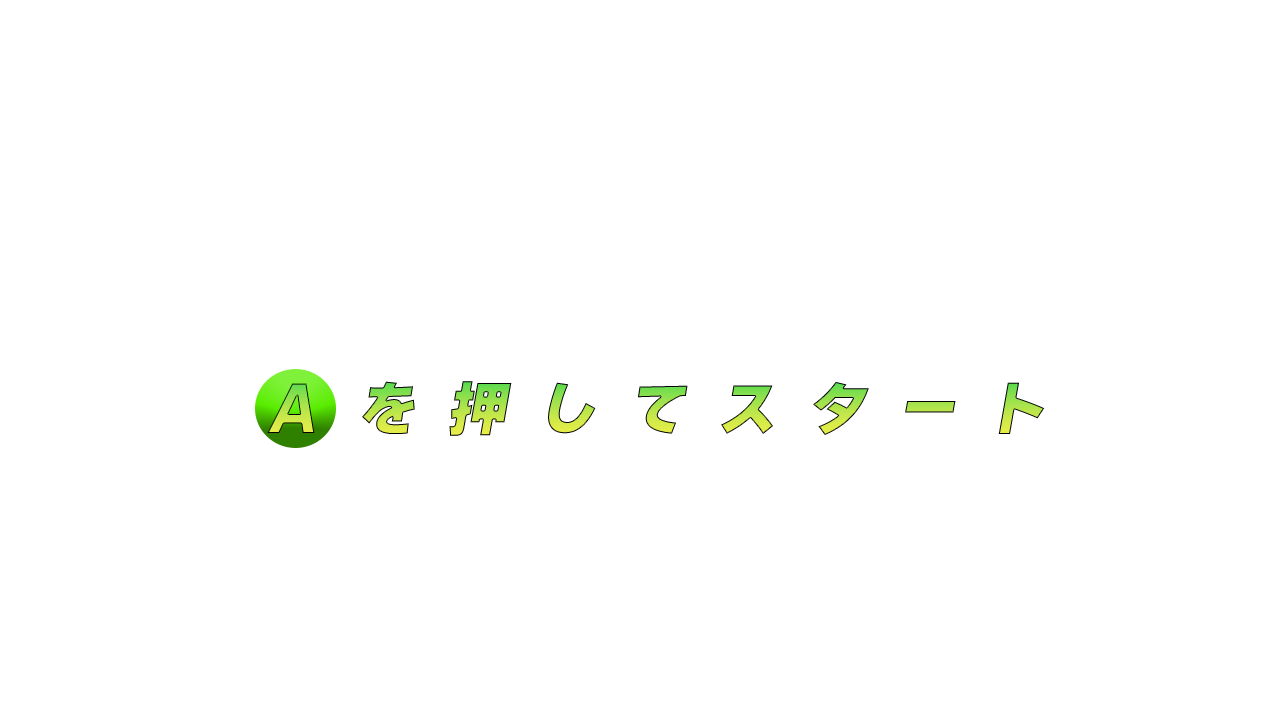
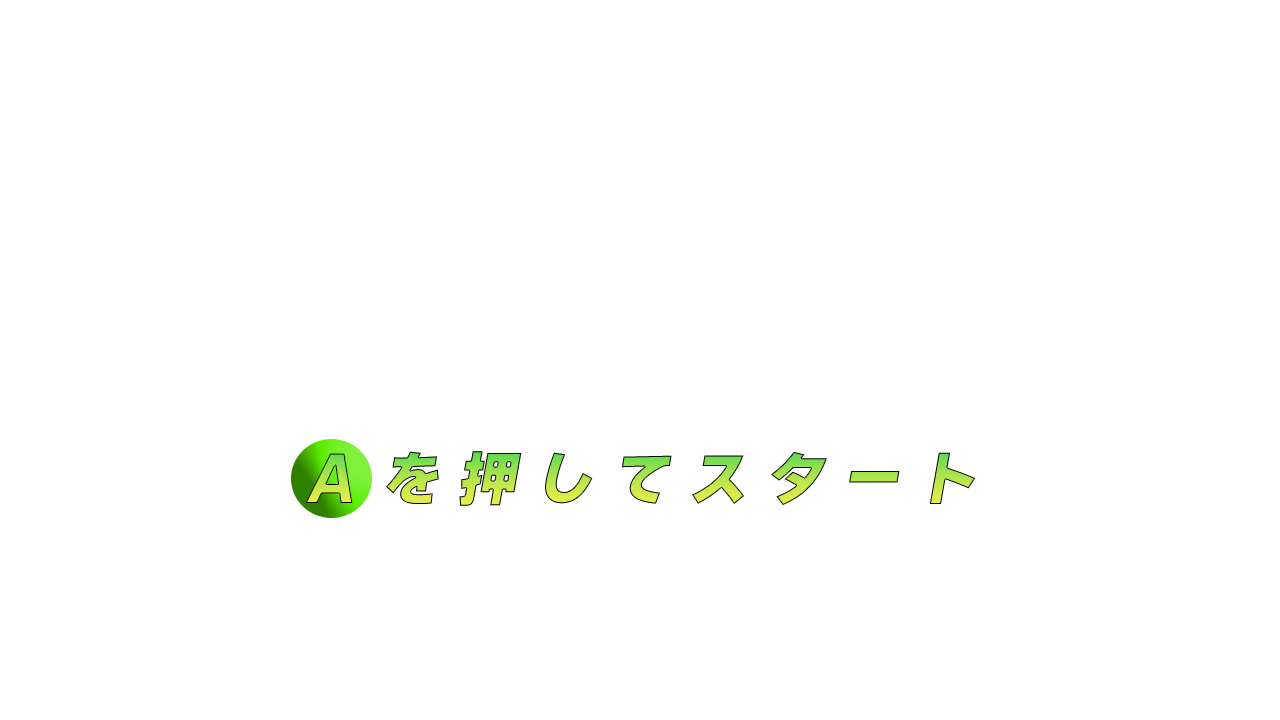
タイトル修正

Changed region(s): [[0.1875, 0.4889, 0.7812, 0.7333], [0.7812, 0.5194, 0.8125, 0.6111]]

diff --git a/DirectXGame/TitleScene.cpp b/DirectXGame/TitleScene.cpp
@@ -18,6 +18,12 @@ void TitleScene::Initialize() {
 	subTitleHandle_ = TextureManager::Load("subTitle.png");
 	textureSubTitle_ = Sprite::Create(subTitleHandle_, {0.0f, 0.0f}, subTitleColor_, {0.0f, 0.0f});
 
+	subTitleHandle1_ = TextureManager::Load("subTitle1.png");
+	textureSubTitle1_ = Sprite::Create(subTitleHandle1_, {0.0f, 0.0f}, subTitleColor1_, {0.0f, 0.0f});
+
+	subTitleHandle2_ = TextureManager::Load("subTitle2.png");
+	textureSubTitle2_ = Sprite::Create(subTitleHandle2_, {0.0f, 0.0f}, subTitleColor2_, {0.0f, 0.0f});
+
 	isSceneEnd_ = false;
 
 	/*score_ = std::make_unique<Score>();
@@ -48,20 +54,20 @@ void TitleScene::Update() {
 
 	// ゲームパッド状態取得
 	if (Input::GetInstance()->GetJoystickState(0, joyState)) {
-		
-		if (joyState.Gamepad.wButtons & XINPUT_GAMEPAD_A && fadeTimerFlag_ == false) {
-			fadeTimerFlag_ = true;
-			fade_->FadeOutStart();
-		}
+		if (subTitleColor2_.w >= 1.0f) {
+			if (joyState.Gamepad.wButtons & XINPUT_GAMEPAD_A && fadeTimerFlag_ == false) {
+				fadeTimerFlag_ = true;
+				fade_->FadeOutStart();
+			}
 
-		if (fadeTimerFlag_ == true) {
-			fadeTimer_--;
-		}
+			if (fadeTimerFlag_ == true) {
+				fadeTimer_--;
+			}
 
-		if (fadeTimer_ <= 0) {
-			isSceneEnd_ = true;
+			if (fadeTimer_ <= 0) {
+				isSceneEnd_ = true;
+			}
 		}
-
 	}
 
 	if (input_->TriggerKey(DIK_SPACE)) {
@@ -79,7 +85,13 @@ void TitleScene::Update() {
 
 	ranking_->Update(sc);*/
 
-	subTitleColor_.w += 0.007f;
+	subTitleColor_.w += 0.01f;
+	if (subTitleColor_.w>=1.0f) {
+		subTitleColor1_.w += 0.01f;
+	}
+	if (subTitleColor1_.w >= 0.5f) {
+		subTitleColor2_.w += 0.01f;
+	}
 
 	// 天球の更新
 	spacedome_->Update();
@@ -130,11 +142,19 @@ void TitleScene::Draw() {
 	/// <summary>
 	/// ここに前景スプライトの描画処理を追加できる
 	/// </summary>
+	if (subTitleColor2_.w >= 1.0f) {
+		textureTitle_->Draw();
+	}
 	
-	textureTitle_->Draw();
 
 	textureSubTitle_->SetColor(subTitleColor_);
+	textureSubTitle1_->SetColor(subTitleColor1_);
+	textureSubTitle2_->SetColor(subTitleColor2_);
+
 	textureSubTitle_->Draw();
+	textureSubTitle1_->Draw();
+	textureSubTitle2_->Draw();
+	
 
 	// フェードの描画
 	fade_->Draw();

diff --git a/DirectXGame/TitleScene.h b/DirectXGame/TitleScene.h
@@ -69,7 +69,15 @@ private: // メンバ変数
 	Sprite* textureSubTitle_;
 	uint32_t subTitleHandle_;
 
+	Sprite* textureSubTitle1_;
+	uint32_t subTitleHandle1_;
+
+	Sprite* textureSubTitle2_;
+	uint32_t subTitleHandle2_;
+
 	Vector4 subTitleColor_ = {1.0f, 1.0f, 1.0f, 0.0f};
+	Vector4 subTitleColor1_ = {1.0f, 1.0f, 1.0f, 0.0f};
+	Vector4 subTitleColor2_ = {1.0f, 1.0f, 1.0f, 0.0f};
 
 	// 天球
 	std::unique_ptr<Spacedome> spacedome_;
